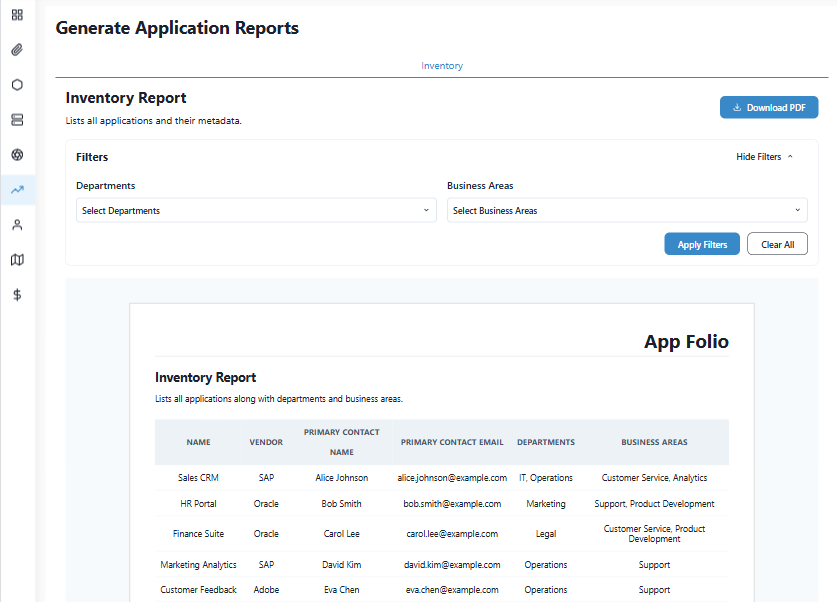
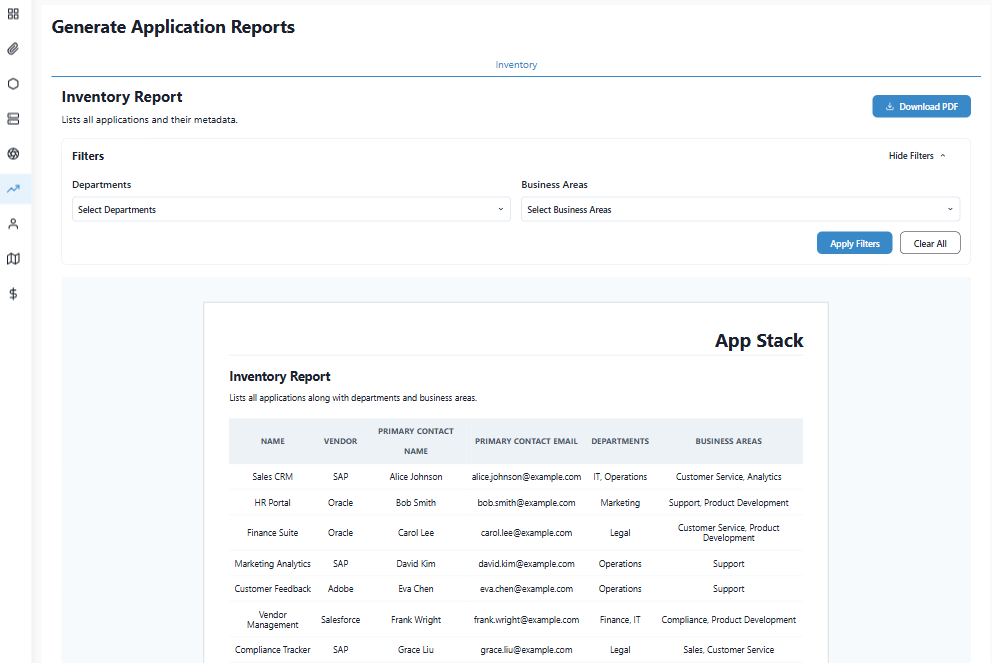
app link or images update

diff --git a/src/layouts/partials/Header.tsx b/src/layouts/partials/Header.tsx
@@ -74,7 +74,9 @@ const Header = ({ children }: { children?: React.ReactNode }) => {
 
   return (
     <div className={`header-wrapper ${pathname === "/" ? "relative" : "pb-6"}`}>
-      <header className={`header relative ${isSticky ? "sticky top-0 z-50 bg-white shadow-md" : ""}`}>
+      <header
+        className={`header relative ${isSticky ? "sticky top-0 z-50 bg-white shadow-md" : ""}`}
+      >
         <nav className="navbar container relative z-10">
           {/* logo */}
           <div className="order-0 flex items-center">
@@ -114,18 +116,22 @@ const Header = ({ children }: { children?: React.ReactNode }) => {
             {main.map((menu, i) => (
               <React.Fragment key={`menu-${i}`}>
                 {menu.hasChildren ? (
-                  <li id={menu.hasChildren ? "all-pages" : undefined} className="nav-item nav-dropdown group relative">
+                  <li
+                    id={menu.hasChildren ? "all-pages" : undefined}
+                    className="nav-item nav-dropdown group relative"
+                  >
                     <span
                       onClick={() => toggleDropdown(i)}
-                      className={`nav-link inline-flex items-center ${menu.children
-                        ?.map(({ url }) => url)
-                        .includes(pathname) ||
+                      className={`nav-link inline-flex items-center ${
+                        menu.children
+                          ?.map(({ url }) => url)
+                          .includes(pathname) ||
                         menu.children
                           ?.map(({ url }) => `${url}/`)
                           .includes(pathname)
-                        ? "active"
-                        : ""
-                        }`}
+                          ? "active"
+                          : ""
+                      }`}
                     >
                       {menu.name}
                       <span className="arrow-icon">
@@ -137,16 +143,19 @@ const Header = ({ children }: { children?: React.ReactNode }) => {
                         </svg>
                       </span>
                     </span>
-                    <ul className={`nav-dropdown-list lg:invisible lg:absolute lg:translate-y-1 lg:opacity-0 lg:transition-all lg:duration-300 lg:group-hover:visible lg:group-hover:block lg:group-hover:translate-y-0 lg:group-hover:opacity-100 ${activeDropdown === i ? 'block' : 'max-lg:hidden'}`}>
+                    <ul
+                      className={`nav-dropdown-list lg:invisible lg:absolute lg:translate-y-1 lg:opacity-0 lg:transition-all lg:duration-300 lg:group-hover:visible lg:group-hover:block lg:group-hover:translate-y-0 lg:group-hover:opacity-100 ${activeDropdown === i ? "block" : "max-lg:hidden"}`}
+                    >
                       {menu.children?.map((child, i) => (
                         <li className="nav-dropdown-item" key={`children-${i}`}>
                           <a
                             href={child.url}
                             aria-label={child.name}
-                            className={`nav-dropdown-link block ${(pathname === `${child.url}/` ||
-                              pathname === child.url) &&
+                            className={`nav-dropdown-link block ${
+                              (pathname === `${child.url}/` ||
+                                pathname === child.url) &&
                               "active"
-                              }`}
+                            }`}
                           >
                             {child.name}
                           </a>
@@ -158,10 +167,11 @@ const Header = ({ children }: { children?: React.ReactNode }) => {
                   <li className="nav-item">
                     <Link
                       href={menu.url}
-                      className={`nav-link block ${(pathname === `${menu.url}/` ||
-                        pathname === menu.url) &&
+                      className={`nav-link block ${
+                        (pathname === `${menu.url}/` ||
+                          pathname === menu.url) &&
                         "active"
-                        }`}
+                      }`}
                     >
                       {menu.name}
                     </Link>
@@ -173,8 +183,14 @@ const Header = ({ children }: { children?: React.ReactNode }) => {
               <Link
                 className="btn btn-dark mt-2 lg:hidden"
                 href={navigation_button.link}
-                target={navigation_button.link.startsWith("http") ? "_blank" : "_self"}
-                rel={navigation_button.link.startsWith("http") ? "noopener noreferrer" : ""}
+                target={
+                  navigation_button.link.startsWith("http") ? "_blank" : "_self"
+                }
+                rel={
+                  navigation_button.link.startsWith("http")
+                    ? "noopener noreferrer"
+                    : ""
+                }
               >
                 {navigation_button.label}
                 <span className="icon-wrapper">
@@ -193,8 +209,14 @@ const Header = ({ children }: { children?: React.ReactNode }) => {
               <Link
                 className="btn btn-dark hidden lg:flex"
                 href={navigation_button.link}
-                target={navigation_button.link.startsWith("http") ? "_blank" : "_self"}
-                rel={navigation_button.link.startsWith("http") ? "noopener noreferrer" : ""}
+                target={
+                  navigation_button.link.startsWith("http") ? "_blank" : "_self"
+                }
+                rel={
+                  navigation_button.link.startsWith("http")
+                    ? "noopener noreferrer"
+                    : ""
+                }
               >
                 {navigation_button.label}
                 <span className="icon-wrapper">
@@ -217,7 +239,11 @@ const Header = ({ children }: { children?: React.ReactNode }) => {
       <div aria-hidden="true">
         <ImageFallback
           className="pointer-events-none absolute top-0 -z-10 h-full w-full object-cover object-top"
-          src={pathname === "/" ? "/images/banner-bg.png" : "/images/page-header.png"}
+          src={
+            pathname === "/"
+              ? "/images/banner-bg.png"
+              : "/images/page-header.png"
+          }
           alt="header image"
           format="webp"
           width={1920}

diff --git a/src/content/sections/features-grid.md b/src/content/sections/features-grid.md
@@ -5,7 +5,7 @@ description: >
   Your All-in-One Platform for Application Insights, Reporting, Mapping, and Data Dependency Management — Built to Support Smarter IT Operations and Strategic Decision-Making.
 
 list:
-  - title: "Build Reports That Drive Action"
+  - title: "View Reports That Drive Action"
     description: >
       Transform raw application data into clear, exportable reports tailored for strategy, audits, and leadership reviews. App Stack helps you uncover insights, highlight trends, and support decisions — without the manual effort.
     image: "/images/features/reports.png"
@@ -20,7 +20,7 @@ list:
       App Stack shows how your applications depend on shared data, helping you spot risks, reduce complexity, and align your systems with what the business truly needs.
     image: "/images/features/dataset-map.png"
     button:
-      enable: true
+      enable: false
       label: "Learn More"
       link: "/features/"
 ---

diff --git a/src/content/pages/privacy-policy.md b/src/content/pages/privacy-policy.md
@@ -46,4 +46,4 @@ We may update this Privacy Policy from time to time. When we do:
 
 ---
 
-If you have any questions about this Privacy Policy or how your data is handled, feel free to contact us at **support@appfoliomgr.com**.
+If you have any questions about this Privacy Policy or how your data is handled, feel free to contact us at **support@appstack.com**.

diff --git a/src/content/pages/terms-conditions.md b/src/content/pages/terms-conditions.md
@@ -77,4 +77,4 @@ We may update these Terms & Conditions from time to time. Continued use of the s
 
 #### 10. Contact
 
-For questions about these Terms & Conditions, please contact us at **support@appfoliomgr.com**.
+For questions about these Terms & Conditions, please contact us at **support@appstack.com**.

diff --git a/src/content/sections/features.md b/src/content/sections/features.md
@@ -34,5 +34,5 @@ list:
     button:
       enable: true
       label: "Get Started"
-      link: "https://my.appfoliomgr.com/login"
+      link: "https://my.app-stack.net/login"
 ---

diff --git a/src/content/sections/call-to-action.md b/src/content/sections/call-to-action.md
@@ -9,5 +9,5 @@ buttons:
     link: "/contact/"
   - enable: true
     label: "Try Now"
-    link: "https://my.appfoliomgr.com/login"
+    link: "https://my.app-stack.net/login"
 ---
